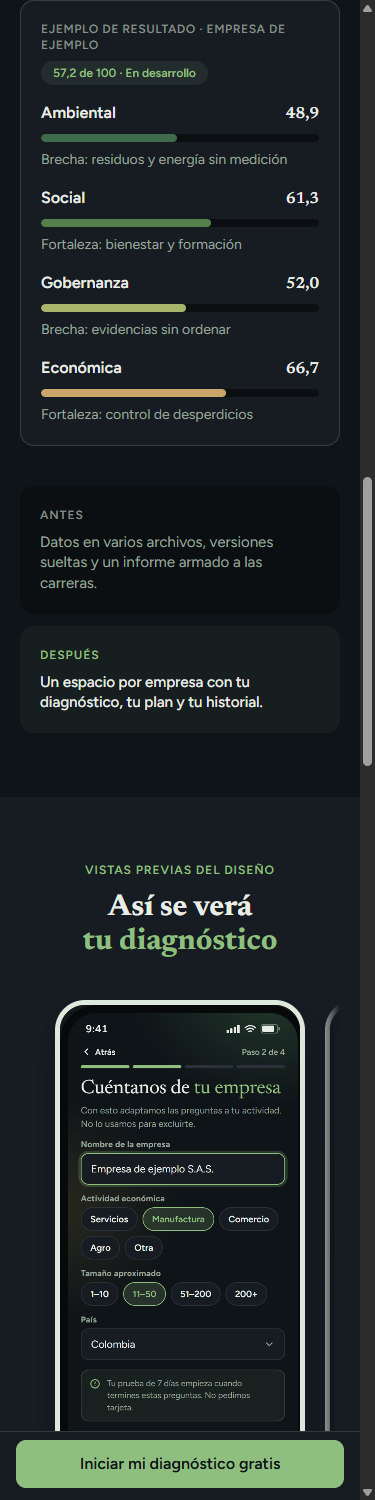
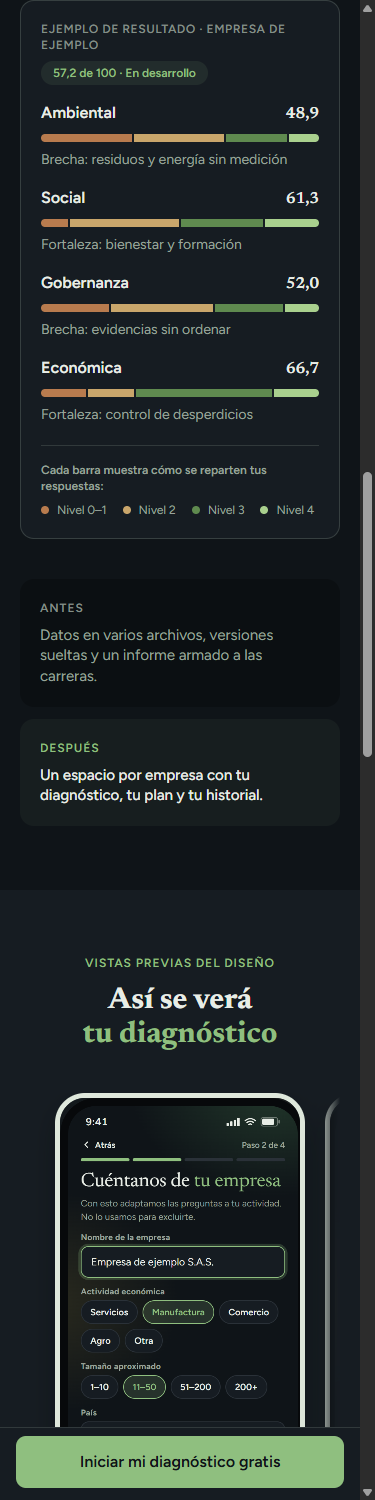
feat: barra segmentada en el ejemplo, estado compartido de los botones

diff --git a/components/landing/EjemploResultado.tsx b/components/landing/EjemploResultado.tsx
@@ -2,17 +2,25 @@
 
 // Ejemplo de resultado (prueba concreta del mecanismo). Rotulado SIEMPRE como ejemplo:
 // la empresa y los puntajes son de muestra, no son resultados de ningún cliente (19 §5).
-// Movimiento baseline: las barras se dibujan y los números cuentan al entrar en vista
-// (una sola vez); con prefers-reduced-motion aparecen ya completos.
+// Dispositivo propio de la marca (FICHA-ARTE): la barra segmentada de madurez muestra cómo se
+// reparten las respuestas por nivel. Movimiento: los números cuentan y los segmentos se dibujan
+// al entrar en vista (una sola vez); con prefers-reduced-motion aparecen ya completos.
 
 import { useEffect, useRef, useState } from 'react';
 import { animate, motion, useInView, useReducedMotion } from 'motion/react';
 
+const NIVELES = [
+  { etiqueta: 'Nivel 0–1', color: 'var(--nivel-1)' },
+  { etiqueta: 'Nivel 2', color: 'var(--nivel-2)' },
+  { etiqueta: 'Nivel 3', color: 'var(--nivel-3)' },
+  { etiqueta: 'Nivel 4', color: 'var(--nivel-4)' },
+];
+
 const DIMENSIONES = [
-  { nombre: 'Ambiental', valor: 48.9, color: 'var(--rueda-1)', nota: 'Brecha: residuos y energía sin medición' },
-  { nombre: 'Social', valor: 61.3, color: 'var(--rueda-2)', nota: 'Fortaleza: bienestar y formación' },
-  { nombre: 'Gobernanza', valor: 52, color: 'var(--rueda-4)', nota: 'Brecha: evidencias sin ordenar' },
-  { nombre: 'Económica', valor: 66.7, color: 'var(--rueda-5)', nota: 'Fortaleza: control de desperdicios' },
+  { nombre: 'Ambiental', valor: 48.9, reparto: [3, 3, 2, 1], nota: 'Brecha: residuos y energía sin medición' },
+  { nombre: 'Social', valor: 61.3, reparto: [1, 4, 3, 2], nota: 'Fortaleza: bienestar y formación' },
+  { nombre: 'Gobernanza', valor: 52, reparto: [2, 3, 2, 1], nota: 'Brecha: evidencias sin ordenar' },
+  { nombre: 'Económica', valor: 66.7, reparto: [1, 1, 3, 1], nota: 'Fortaleza: control de desperdicios' },
 ];
 
 const formato = new Intl.NumberFormat('es-CO', { minimumFractionDigits: 1, maximumFractionDigits: 1 });
@@ -31,6 +39,7 @@ export function EjemploResultado() {
   const ref = useRef<HTMLElement | null>(null);
   const visible = useInView(ref, { once: true, amount: 0.3 });
   const reducir = useReducedMotion();
+  const mostrar = visible || Boolean(reducir);
 
   return (
     <figure
@@ -45,29 +54,46 @@ export function EjemploResultado() {
           57,2 de 100 · En desarrollo
         </span>
       </figcaption>
+
       <ul className="mt-4 flex flex-col gap-4">
-        {DIMENSIONES.map((d, i) => (
-          <li key={d.nombre}>
-            <div className="flex items-baseline justify-between gap-3">
-              <span className="text-base font-semibold text-[var(--text-primary)]">{d.nombre}</span>
-              <span className="text-base font-semibold text-[var(--text-primary)] [font-family:var(--font-display)]">
-                <Conteo hasta={d.valor} activo={visible} reducir={reducir} />
-              </span>
-            </div>
-            <div
-              role="img"
-              aria-label={`${d.nombre}: ${formato.format(d.valor)} de 100`}
-              className="mt-2 h-2 w-full overflow-hidden rounded-full bg-[var(--surface-2)]"
-            >
-              <motion.div
-                className="h-full rounded-full"
-                style={{ background: d.color }}
-                initial={{ width: reducir ? `${d.valor}%` : 0 }}
-                animate={{ width: visible || reducir ? `${d.valor}%` : 0 }}
-                transition={{ duration: reducir ? 0 : 0.9, delay: reducir ? 0 : 0.06 * i, ease: [0.32, 0.72, 0, 1] }}
-              />
-            </div>
-            <p className="mt-2 text-sm text-[var(--text-secondary)]">{d.nota}</p>
+        {DIMENSIONES.map((d, i) => {
+          const total = d.reparto.reduce((a, b) => a + b, 0);
+          return (
+            <li key={d.nombre}>
+              <div className="flex items-baseline justify-between gap-3">
+                <span className="text-base font-semibold text-[var(--text-primary)]">{d.nombre}</span>
+                <span className="text-base font-semibold text-[var(--text-primary)] [font-family:var(--font-display)]">
+                  <Conteo hasta={d.valor} activo={visible} reducir={reducir} />
+                </span>
+              </div>
+              <div
+                role="img"
+                aria-label={`${d.nombre}: ${formato.format(d.valor)} de 100. Reparto de respuestas por nivel: ${d.reparto.join(', ')}.`}
+                className="mt-2 flex h-2 w-full gap-0.5 overflow-hidden rounded-full"
+              >
+                {d.reparto.map((n, k) => (
+                  <motion.div
+                    key={NIVELES[k].etiqueta}
+                    className="h-full"
+                    style={{ background: NIVELES[k].color, flexBasis: `${(n / total) * 100}%`, transformOrigin: 'left' }}
+                    initial={{ scaleX: reducir ? 1 : 0 }}
+                    animate={{ scaleX: mostrar ? 1 : 0 }}
+                    transition={{ duration: reducir ? 0 : 0.5, delay: reducir ? 0 : 0.06 * i + 0.08 * k, ease: [0.32, 0.72, 0, 1] }}
+                  />
+                ))}
+              </div>
+              <p className="mt-2 text-sm text-[var(--text-secondary)]">{d.nota}</p>
+            </li>
+          );
+        })}
+      </ul>
+
+      <ul className="mt-5 flex flex-wrap gap-x-4 gap-y-2 border-t border-[color-mix(in_oklab,var(--text-tertiary)_25%,transparent)] pt-4 text-xs text-[var(--text-secondary)]">
+        <li className="w-full font-semibold">Cada barra muestra cómo se reparten tus respuestas:</li>
+        {NIVELES.map((n) => (
+          <li key={n.etiqueta} className="flex items-center gap-2">
+            <span aria-hidden="true" className="size-2 rounded-sm" style={{ background: n.color }} />
+            {n.etiqueta}
           </li>
         ))}
       </ul>

diff --git a/components/landing/ui.tsx b/components/landing/ui.tsx
@@ -139,6 +139,40 @@ export function useReveal(stagger = 0.07): { contenedor: Variants; item: Variant
 /* Props estándar para el contenedor con reveal — evita repetir en cada sección. */
 export const VIEWPORT_ONCE = { once: true, amount: 0.2 } as const;
 
+/* ── useEstadoCta — feedback de todos los CTA que abren otra página ──────────
+   Al tocar: «Abriendo…» inmediato y sin doble toque. Si a los 8 s no abrió (sin conexión),
+   vuelve a reposo y avisa qué hacer; el aviso se borra solo a los 6 s. Si la persona vuelve
+   atrás (página restaurada de la caché del navegador), el botón vuelve a reposo. */
+type EstadoCta = 'reposo' | 'abriendo' | 'fallo';
+
+export function useEstadoCta() {
+  const [estado, setEstado] = useState<EstadoCta>('reposo');
+
+  useEffect(() => {
+    if (estado === 'reposo') return;
+    const t = setTimeout(() => setEstado(estado === 'abriendo' ? 'fallo' : 'reposo'), estado === 'abriendo' ? 8000 : 6000);
+    return () => clearTimeout(t);
+  }, [estado]);
+
+  useEffect(() => {
+    const alVolver = (e: PageTransitionEvent) => {
+      if (e.persisted) setEstado('reposo');
+    };
+    window.addEventListener('pageshow', alVolver);
+    return () => window.removeEventListener('pageshow', alVolver);
+  }, []);
+
+  const alTocar = (e: React.MouseEvent<HTMLAnchorElement>) => {
+    if (estado === 'abriendo') {
+      e.preventDefault();
+      return;
+    }
+    setEstado('abriendo');
+  };
+
+  return { estado, alTocar };
+}
+
 /* ── <CtaButton> — el CTA vivo del kit: ≥52px, whileTap 0.97, sombra tintada.
    El texto sobre acento usa --bg: si tu FICHA-ARTE rompe el contraste AA ahí,
    ajusta los tokens, no el componente. ── */
@@ -153,14 +187,7 @@ export function CtaButton({
   alto?: 52 | 56;
   fullMobile?: boolean;
 }) {
-  // Estado de carga: feedback inmediato al tocar, sin doble toque. Si la navegación no llega
-  // a ocurrir (sin conexión), a los 8 s el botón vuelve a su estado normal y avisa qué hacer.
-  const [estado, setEstado] = useState<'reposo' | 'abriendo' | 'fallo'>('reposo');
-  useEffect(() => {
-    if (estado !== 'abriendo') return;
-    const t = setTimeout(() => setEstado('fallo'), 8000);
-    return () => clearTimeout(t);
-  }, [estado]);
+  const { estado, alTocar } = useEstadoCta();
 
   return (
     <span className={`inline-flex flex-col items-center ${fullMobile ? 'w-full sm:w-auto' : ''}`}>
@@ -168,13 +195,7 @@ export function CtaButton({
         whileTap={{ scale: 0.97 }}
         href={href}
         aria-busy={estado === 'abriendo'}
-        onClick={(e) => {
-          if (estado === 'abriendo') {
-            e.preventDefault();
-            return;
-          }
-          setEstado('abriendo');
-        }}
+        onClick={alTocar}
         className={`inline-flex w-full items-center justify-center whitespace-nowrap rounded-[var(--radius-button)] bg-[var(--accent)] px-4 text-center text-[16px] font-semibold text-[var(--bg)] shadow-[0_8px_30px_color-mix(in_oklab,var(--accent)_25%,transparent)] transition-colors duration-150 hover:bg-[color-mix(in_oklab,var(--accent)_88%,var(--text-primary))] sm:w-auto sm:px-8 sm:text-[17px] [touch-action:manipulation] ${
           alto === 56 ? 'h-14' : 'h-[52px]'
         }`}
@@ -211,6 +232,7 @@ export function StickyCtaMobile({
   ctaFinalId?: string;
 }) {
   const reduce = useReducedMotion();
+  const { estado, alTocar } = useEstadoCta();
   const [heroVisible, setHeroVisible] = useState(true);
   const [ofertaVisible, setOfertaVisible] = useState(false);
   const [ofertaVista, setOfertaVista] = useState(false);
@@ -258,10 +280,17 @@ export function StickyCtaMobile({
           <motion.a
             whileTap={{ scale: 0.97 }}
             href={ofertaVista ? href : `#${ofertaId}`}
-            className="flex h-12 w-full items-center justify-center rounded-[var(--radius-button)] bg-[var(--accent)] text-[16px] font-semibold text-[var(--bg)] [touch-action:manipulation]"
+            aria-busy={ofertaVista && estado === 'abriendo'}
+            onClick={ofertaVista ? alTocar : undefined}
+            className="flex h-[52px] w-full items-center justify-center whitespace-nowrap rounded-[var(--radius-button)] bg-[var(--accent)] text-[16px] font-semibold text-[var(--bg)] [touch-action:manipulation]"
           >
-            {ofertaVista ? labelComercial : labelPre}
+            {ofertaVista ? (estado === 'abriendo' ? 'Abriendo…' : labelComercial) : labelPre}
           </motion.a>
+          {ofertaVista && estado === 'fallo' && (
+            <p role="alert" className="mt-2 text-center text-[13px] text-[var(--text-secondary)]">
+              No pudimos abrirlo. Revisa tu conexión y vuelve a tocar el botón.
+            </p>
+          )}
         </motion.div>
       )}
     </AnimatePresence>

diff --git a/app/tokens.css b/app/tokens.css
@@ -49,6 +49,10 @@
   --hoja-arena-3: #7a6443;
   --tronco-1: #8a5a37;
   --tronco-2: #c58a57;
+  --nivel-1: #b87b4e;
+  --nivel-2: #c9a66b;
+  --nivel-3: #5f8a4f;
+  --nivel-4: #a9d08e;
   --gota: #1b2126;
   --gota-borde: #2f3a33;
   /* Bloque final: en el tema oscuro no se invierte a crema; usa el verde profundo de la tarjeta héroe */

diff --git a/docs/revisiones/landing-veredicto.md b/docs/revisiones/landing-veredicto.md
@@ -1,11 +1,12 @@
 # VEREDICTO revisor-visual — landing
-Fecha: 2026-10-21 18:00
+Fecha: 2026-10-21 20:00
 Screenshot: docs/revisiones/landing-375.png
 Usabilidad: 33/40
-Craft: 14/20
+Craft: 15/20
 Copy (si vende): 17/20
 Fidelidad (si hubo referencia): N-A
 Veredicto: NO LISTA
-Historial: 1a ronda 28/40, 15/20, 14/20. 2a ronda 31/40, 15/20, 16/20. 3a ronda 33/40, 14/20, 17/20.
-Detalle: usabilidad h1:2 h2:4 h3:3 h4:4 h5:3 h6:4 h7:3 h8:3 h9:3 h10:4 · craft jerarquia:3 profundidad:3 identidad:3 movimiento:3 encaje:2 · copy idea:3 especificidad:3 emocion:3 oferta:4 accion:4
-Top defectos: 1) [Oferta, tarjeta Anual, boton] la frase unica "Iniciar mi diagnostico gratis" se parte en 2 lineas con texto alineado a la izquierda y descentrado dentro del boton (el mismo texto cabe en una linea en la tarjeta Mensual): corregir con text-center, whitespace-nowrap y padding/tamano igual al resto (encaje y CTA vivo). 2) [Oferta, titulo de garantia] el encabezado arranca en minuscula "la Garantia del..." (visible en landing-375-d): capitalizar y revisar que nombre y plazo (14 dias) esten juntos junto al CTA de compra. 3) [Solucion, Ejemplo de resultado] las barras de puntaje y los numeros no animan (sin conteo ni dibujado, 0 uso de motion en EjemploResultado.tsx): barras que crecen y cuentas 0 a valor al entrar en vista, con reduced-motion. 4) [Todo CTA] el boton no tiene estado de carga/error aun; aceptado por ahora porque /onboarding es estatico, pero NO se puede declarar el flujo verificado: en Etapa 3 agregar spinner inline, bloqueo de doble tap y error con solucion (h1 queda en 2, h9 en 3). 5) [Hero/Solucion] "Rueda de Madurez" se presenta bien, pero el Ejemplo de resultado queda cerca del final de la seccion, bajo la barra fija que lo tapa parcialmente en la captura b; mover el ejemplo antes del pasos o dar padding inferior para que la barra no corte la tarjeta.
+Historial: 1a ronda 28/40, 15/20, 14/20. 2a ronda 31/40, 15/20, 16/20. 3a ronda 33/40, 14/20, 17/20. 4a ronda 33/40, 15/20, 17/20.
+Detalle: usabilidad h1:3 h2:4 h3:3 h4:3 h5:3 h6:4 h7:3 h8:3 h9:3 h10:4 · craft jerarquia:3 profundidad:3 identidad:3 movimiento:3 encaje:3 · copy idea:3 especificidad:3 emocion:3 oferta:4 accion:4
+Top defectos: 1) [Barra fija inferior, StickyCtaMobile en ui.tsx] no usa CtaButton: sin estado "Abriendo...", sin bloqueo de doble toque ni aviso de fallo, alto 48px vs 52px del resto; es el CTA mas visible en movil y queda inconsistente con los demas (h1 y h4): reutilizar CtaButton o replicar su logica. 2) [CtaButton, estado fallo] el mensaje de error queda fijo hasta el siguiente toque y el boton tras 8 s vuelve a decir el texto original sin indicar reintento; ademas "Abriendo..." nunca se limpia si el usuario vuelve atras (bfcache): resetear a reposo en pageshow y al ocultar el aviso tras unos segundos. 3) [Hero/Solucion/Oferta, movimiento] solo el Ejemplo de resultado tiene conteo/dibujado; verificar y dejar documentado en codigo el resto de baseline (stagger, transicion de secciones) y que el hero tenga entrada propia: sin eso movimiento no pasa de 3. 4) [Ejemplo de resultado en captura d] barra fija tapa la parte baja de la tarjeta del mockup de telefono (defecto previo #5, no corregido): es comportamiento normal, pero anadir padding inferior o ocultar la barra sobre vistas previas elimina el recorte. 5) [Toda la pagina, craft] la pagina es solida pero no sube de 3 en identidad/profundidad: un detalle firma adicional (textura/grano en fondo base o rueda como motivo recurrente en separadores) llevaria identidad a 4.
+Criterios que NO pueden llegar a 4 sin Etapa 3 (flujo real): h1 (carga real, tope 3 hasta verificar con red lenta), h5 (validacion de formularios), h9 (errores reales de registro/pago), y h3/h7 (deshacer, atajos) solo verificables con flujo. Con ellos en 3, el maximo alcanzable en la landing sola es 36/40 y exige 4 en h2, h4, h6, h8, h10: el gate de 36 es alcanzable ahora pero sin margen. Craft 15/20 es el bloqueante real (falta 1 punto: movimiento o identidad), no depende de Etapa 3.
